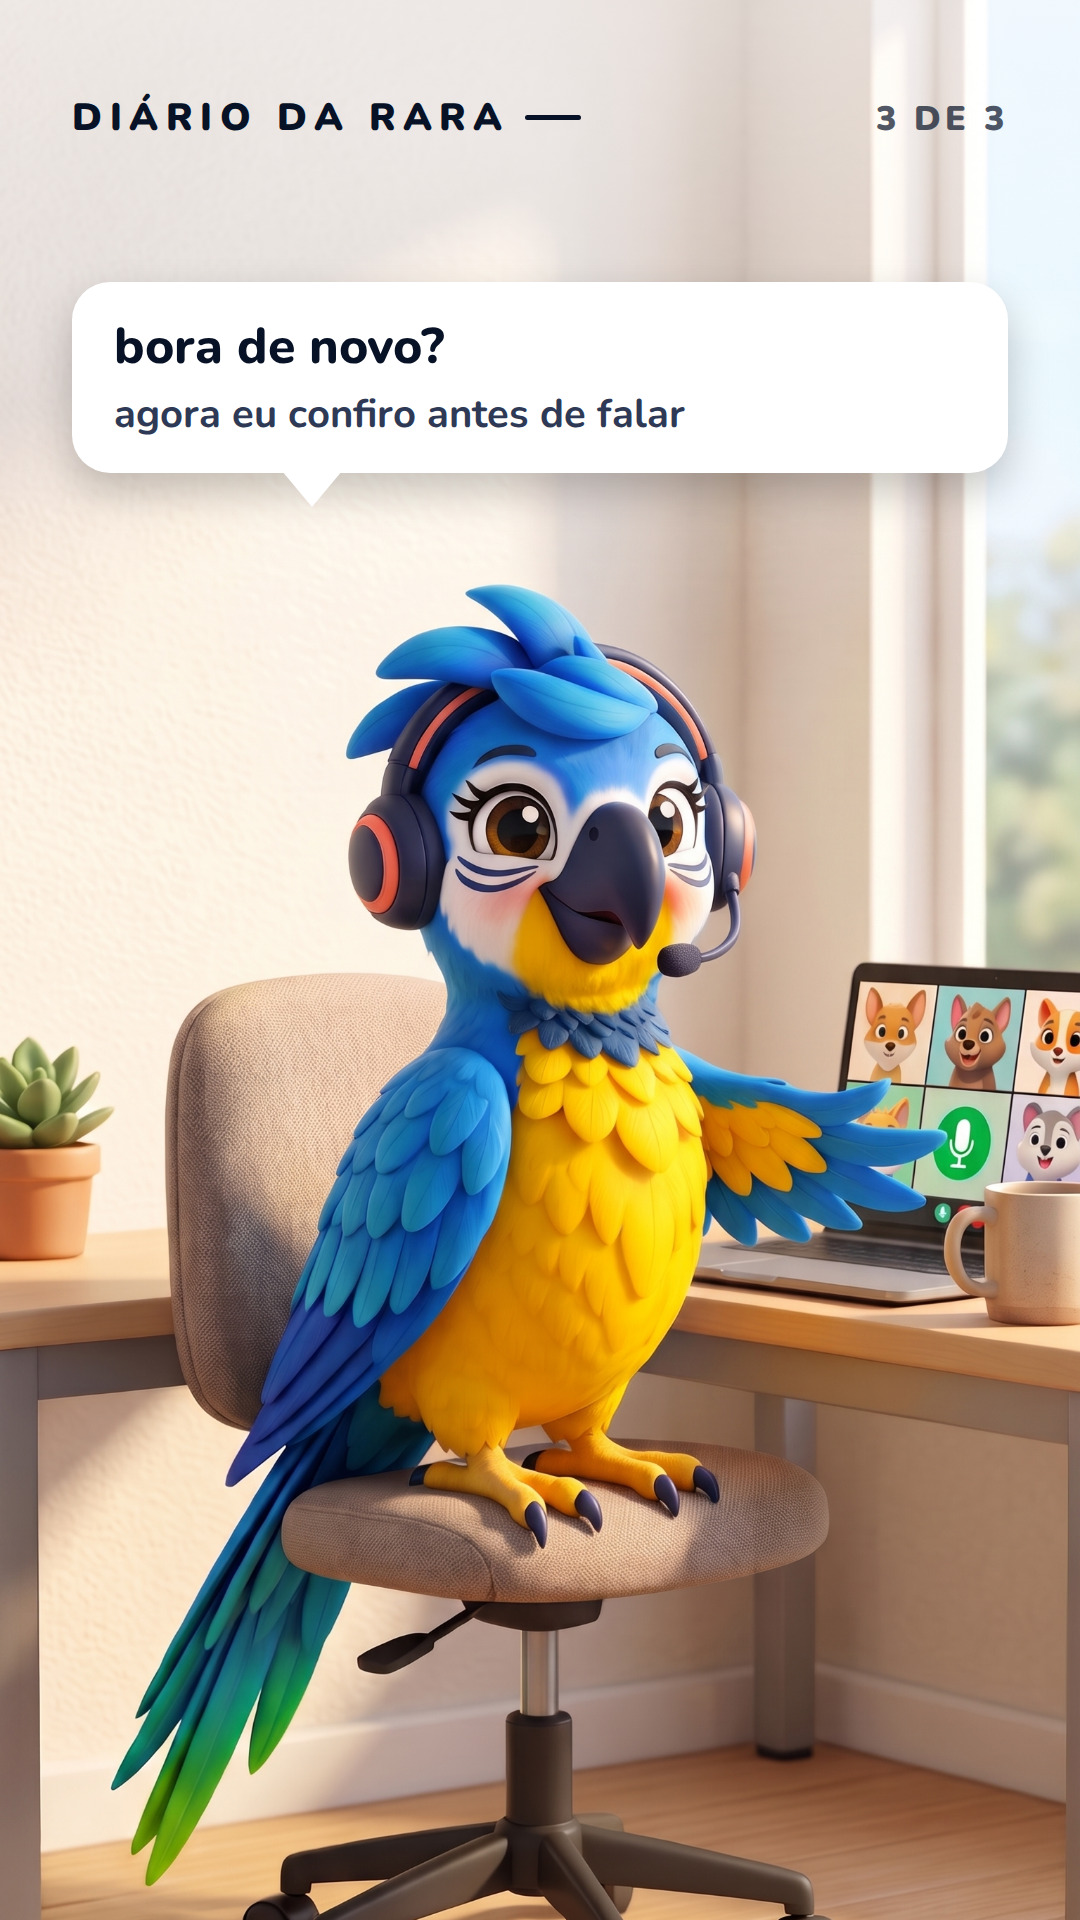
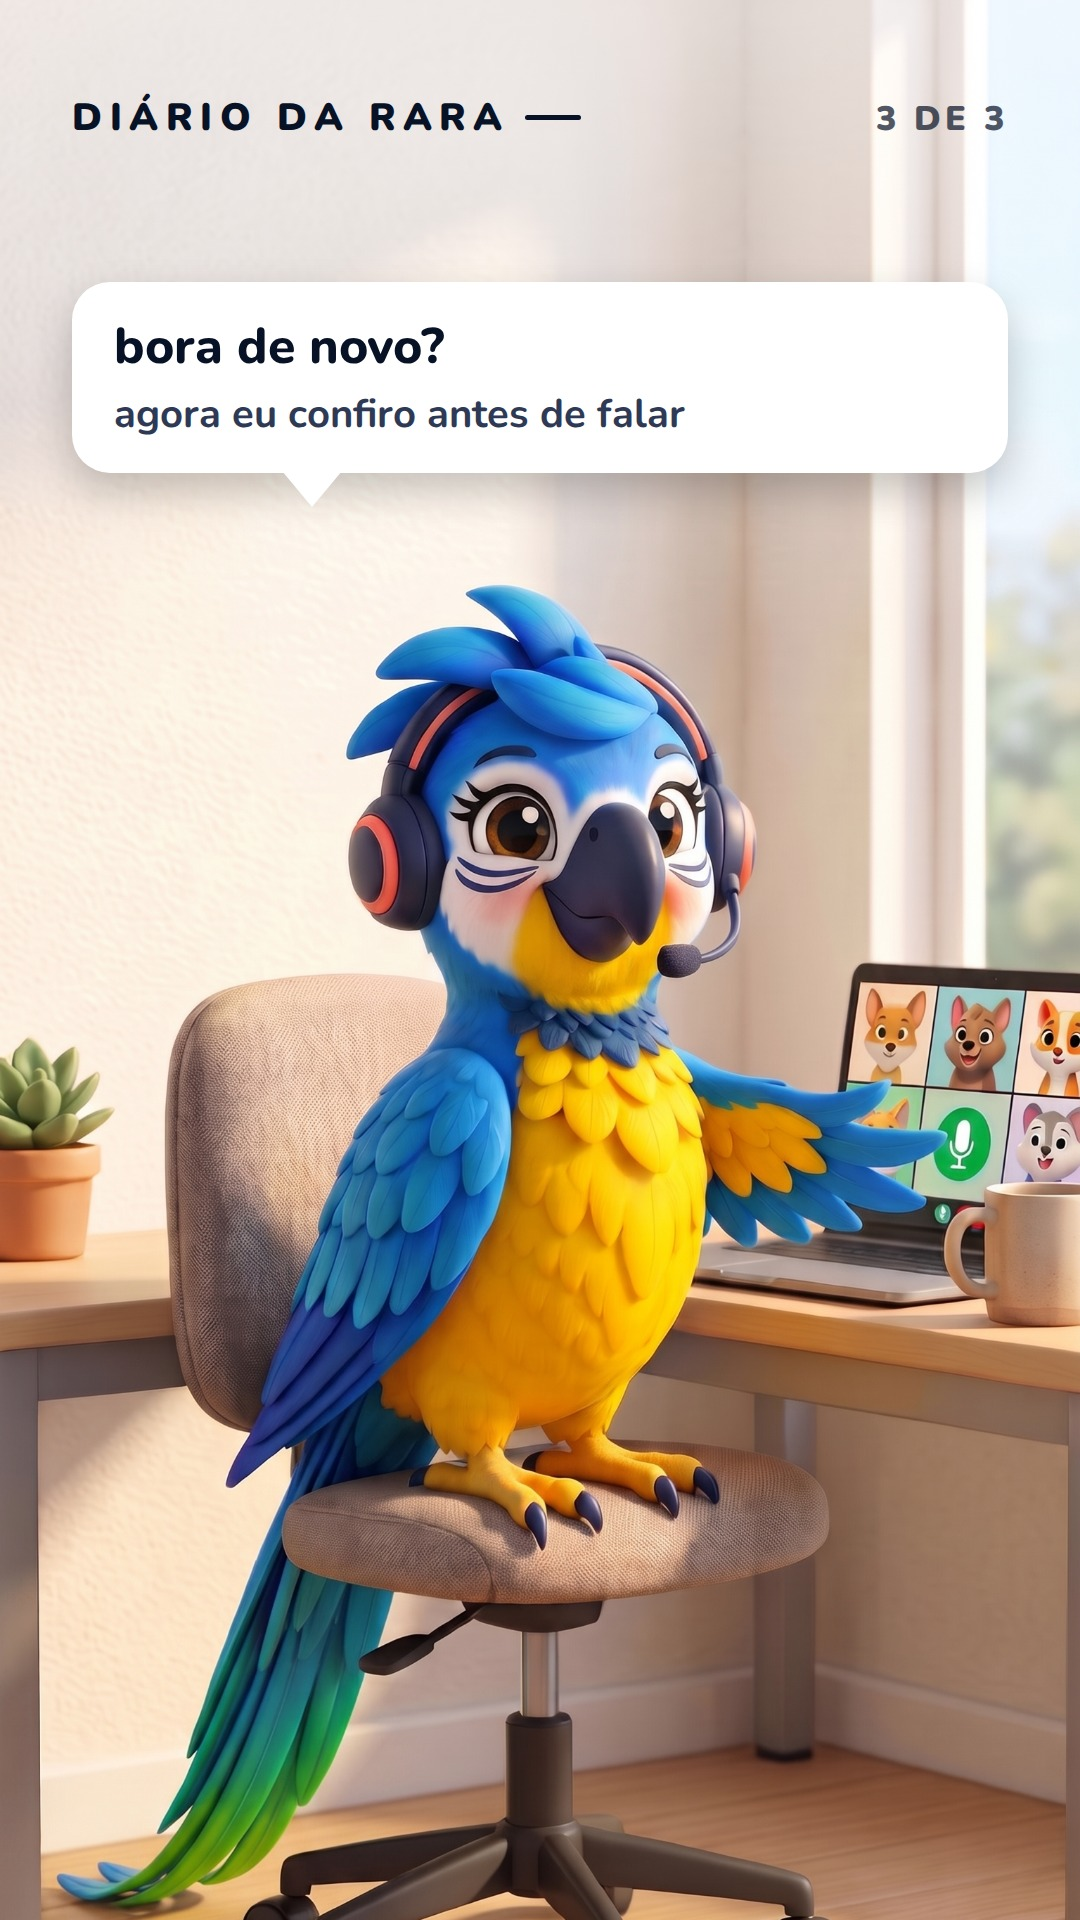
feat(arara): stories 204 a 206 regerados com rabo em feixe de penas

diff --git a/semana_23_29_diario/compor_telas.py b/semana_23_29_diario/compor_telas.py
@@ -10,7 +10,7 @@ EPS = {
    telas=[ ['são 7h e o escritório inteiro é meu'],
            ['ensaiei o japonês do trabalho em voz alta', '<small>お疲れ様です (otsukaresama desu) pra cadeira, e ela nem respondeu</small>'],
            ['só tem um detalhe', '<small>e até agora ninguém chegou</small>'] ]),
- 'qua': dict(img=['qua_call_v2.jpg', 'qua_2.jpg', 'qua_3.jpg'], sel='DIÁRIO DA RARA', topo=[589, 520, 589], titulo='A call que só eu ouvi', kw='só eu',
+ 'qua': dict(img=['qua_call_v5.jpg', 'qua_2_v4.jpg', 'qua_3_v5.jpg'], sel='DIÁRIO DA RARA', topo=[589, 520, 589], titulo='A call que só eu ouvi', kw='só eu',
    telas=[ ['10h, call importante, eu estava inspirada'],
            ['falei por dez minutos', '<small>o microfone estava no mudo</small>'],
            ['bora de novo?', '<small>agora eu confiro antes de falar</small>'] ]),
@@ -58,7 +58,10 @@ b.style.top=(bottomMax-36-b.offsetHeight)+'px';
 </script></body></html>"""
 def main():
     medidas = {}
+    import sys
+    only = sys.argv[1:]
     for ep, d in EPS.items():
+        if only and ep not in only: continue
         for i, linhas in enumerate(d['telas']):
             n = SC / f'diario_{ep}_{i+1}.html'
             n.write_text(tela(ep, d, i, linhas), encoding='utf-8')
